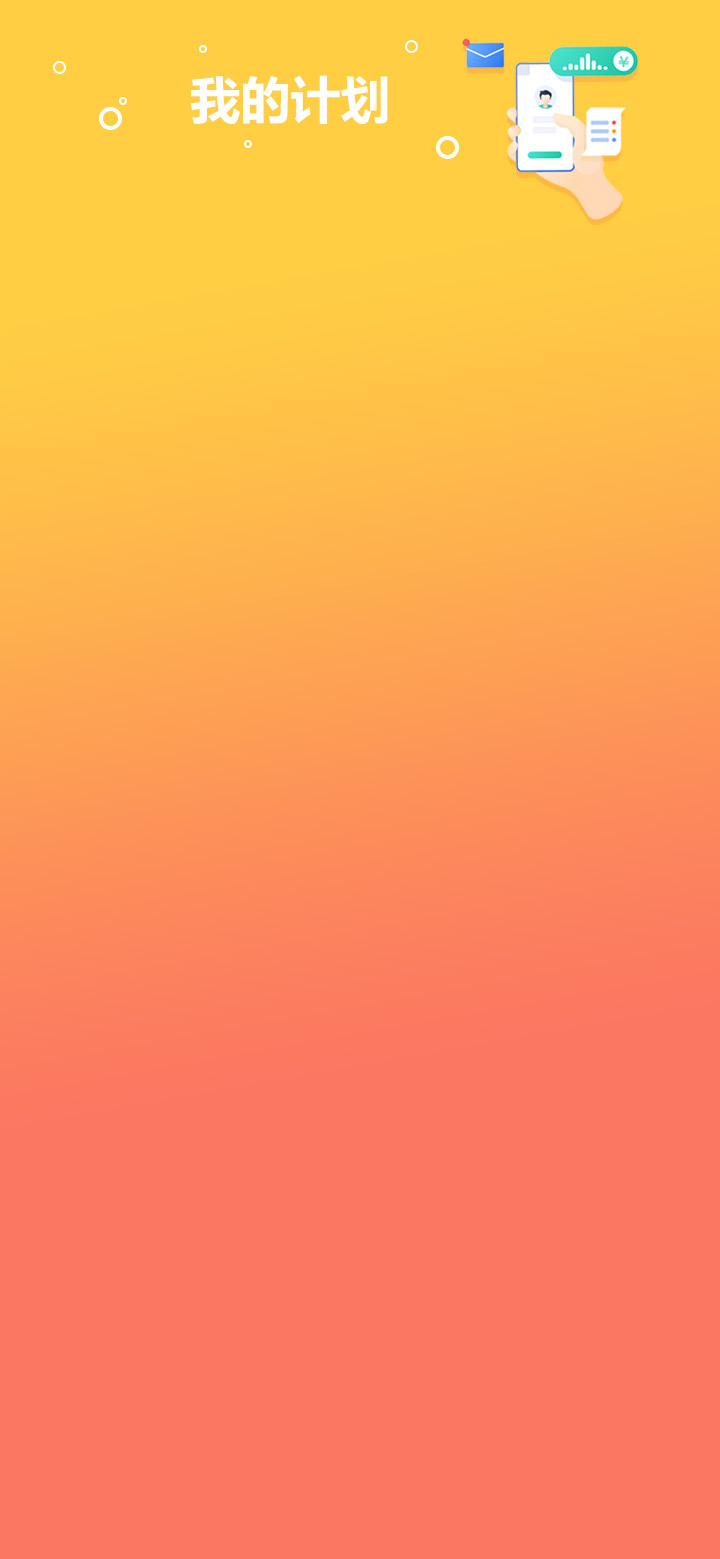
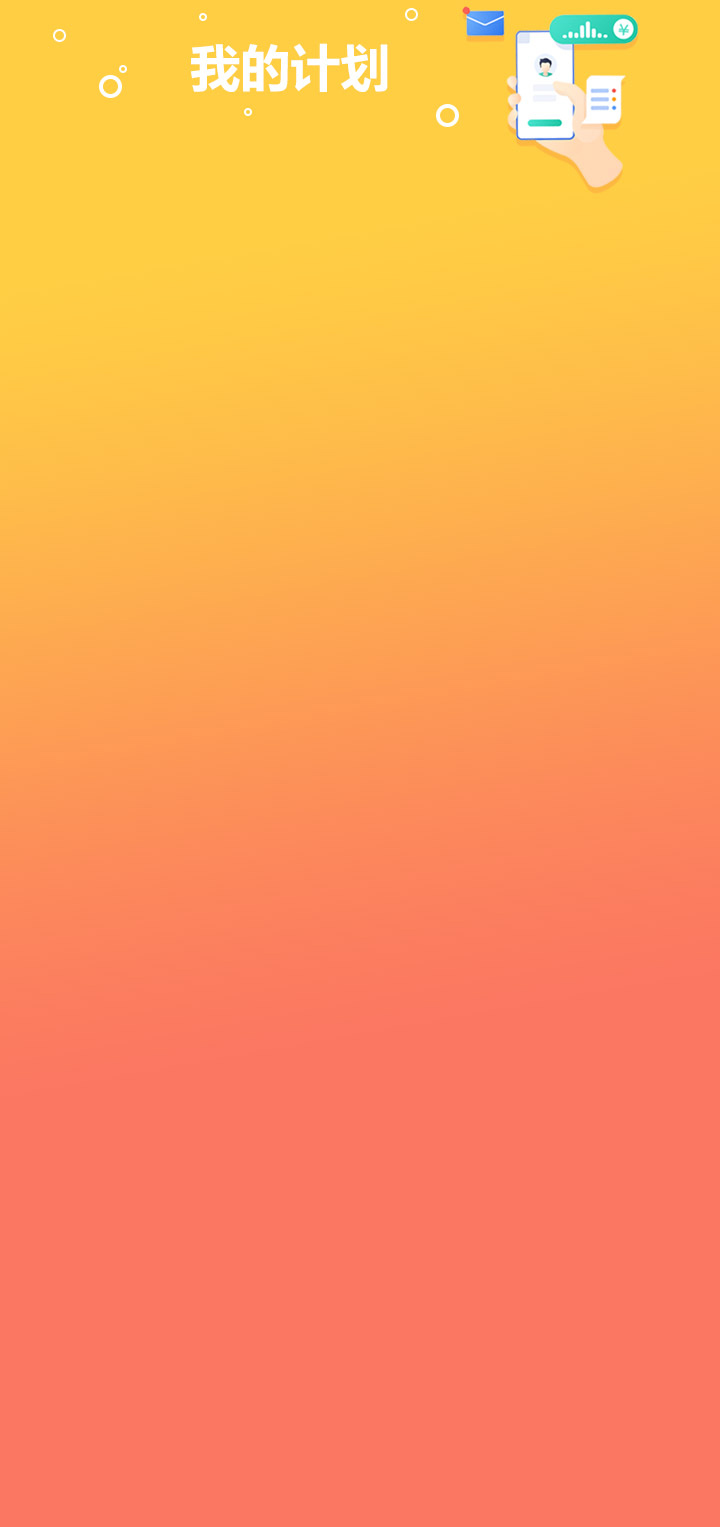
no message

diff --git a/Application/Home/View/Plan/index.php b/Application/Home/View/Plan/index.php
@@ -35,7 +35,7 @@
                 letter-spacing: 2px;
                 height: 1.35rem;
                 position: fixed;
-                top: 1.4rem;
+                top: 1rem;
             }
             .ui{
                  width:100%;
